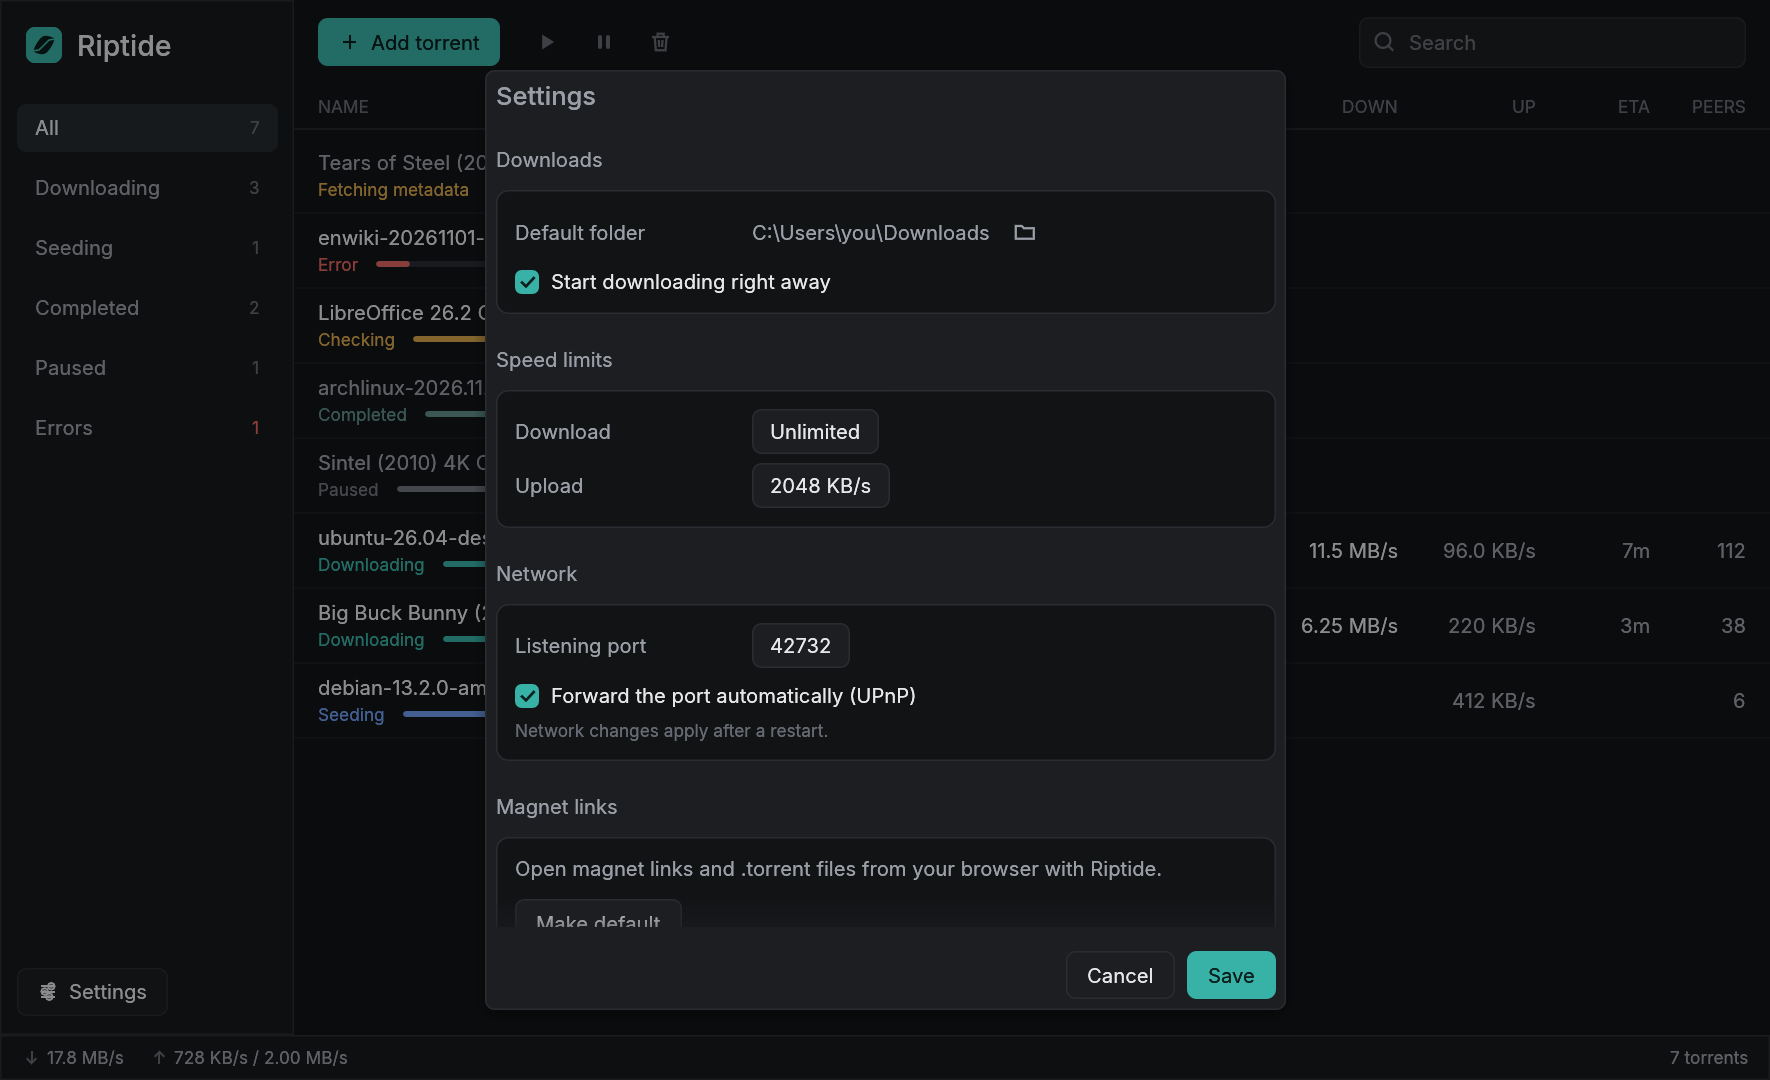
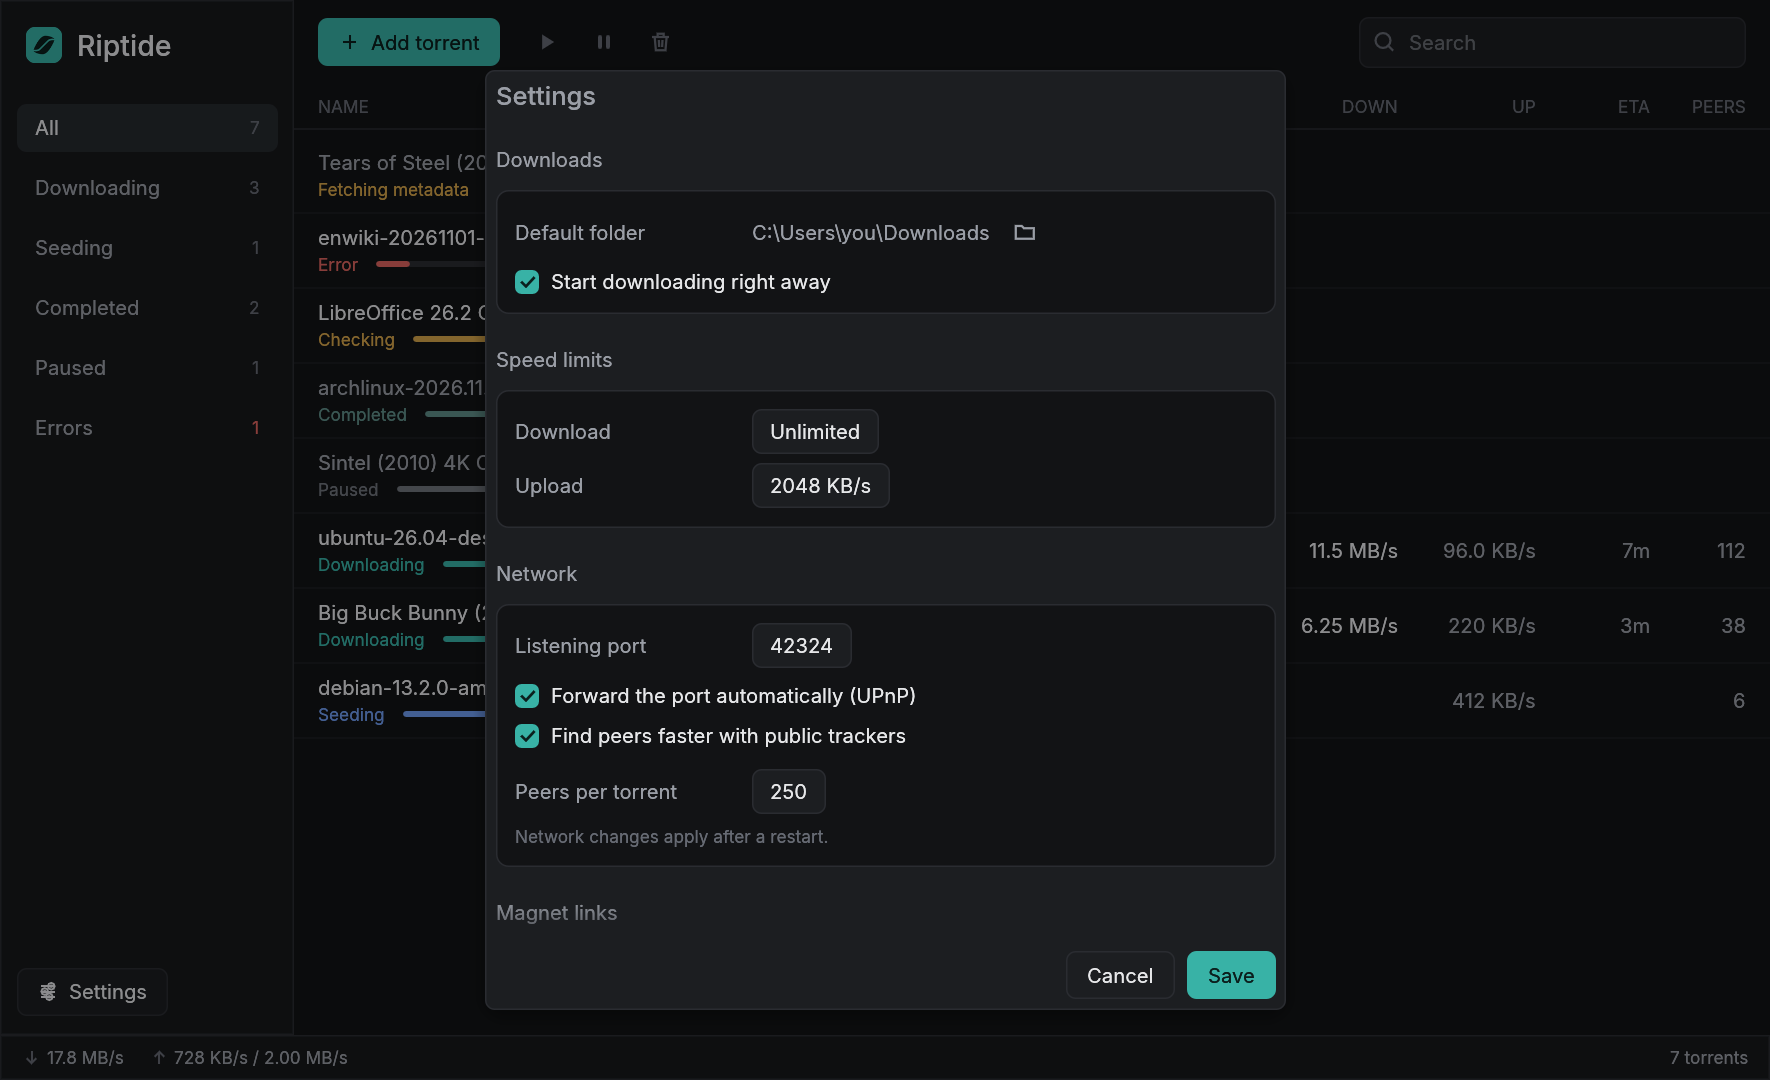
Tune the engine for faster downloads
Measured with a new benchmark (cargo test --release speed_benchmark --
--ignored) that downloads the same torrent with librqbit's defaults and
with Riptide's settings:

  Ubuntu 26.04 .torrent, 45 s:  8.69 -> 10.4 MB/s, peak peers 48 -> 115
  bare Sintel magnet, 20 s:     metadata 2.0 -> 1.0 s, peers 20 -> 56

- Up to 250 peers per torrent (librqbit default 128), configurable.
- Peer connect timeout 4 s instead of 10 s, so dead peers are skipped
  quickly while the swarm is explored.
- Optional list of large public trackers added to every torrent; most
  magnet links carry few or none.
- Check up to 6 torrents in parallel at startup (default 3).
- Settings: 'Peers per torrent' and 'Find peers faster with public
  trackers'.

Changed region(s): [[0.2797, 0.7333, 0.6525, 0.8556], [0.2797, 0.6722, 0.4972, 0.7333], [0.435, 0.5806, 0.4661, 0.6111]]

diff --git a/src/engine.rs b/src/engine.rs
@@ -16,8 +16,9 @@ use std::time::{Duration, Instant};
 use anyhow::Context;
 use librqbit::api::TorrentIdOrHash;
 use librqbit::{
-    AddTorrent, AddTorrentOptions, AddTorrentResponse, ListenerMode, ListenerOptions, Magnet,
-    ManagedTorrent, Session, SessionOptions, SessionPersistenceConfig, TorrentStatsState,
+    AddTorrent, AddTorrentOptions, AddTorrentResponse, ConnectionOptions, ListenerMode,
+    ListenerOptions, Magnet, ManagedTorrent, PeerConnectionOptions, Session, SessionOptions,
+    SessionPersistenceConfig, TorrentStatsState,
 };
 
 use crate::settings::Settings;
@@ -267,6 +268,31 @@ impl Engine {
                 upload_bps: kib_to_bps(settings.upload_limit_kib),
             },
             client_name_and_version: Some(format!("Riptide {}", env!("CARGO_PKG_VERSION"))),
+            // More simultaneous peers than librqbit's default of 128: popular
+            // torrents have hundreds of seeds and each adds bandwidth.
+            peer_limit: Some(settings.max_peers.max(16)),
+            connect: Some(ConnectionOptions {
+                peer_opts: Some(PeerConnectionOptions {
+                    // Give up on unreachable peers after 4 s instead of 10 s, so
+                    // the swarm is explored faster right after a torrent starts.
+                    connect_timeout: Some(Duration::from_secs(
+                        settings.connect_timeout_secs.max(1),
+                    )),
+                    ..Default::default()
+                }),
+                ..Default::default()
+            }),
+            trackers: if settings.extra_trackers {
+                crate::trackers::PUBLIC
+                    .iter()
+                    .filter_map(|t| t.parse().ok())
+                    .collect()
+            } else {
+                Default::default()
+            },
+            // Check more torrents in parallel at startup so resumed downloads
+            // get going sooner.
+            concurrent_init_limit: Some(6),
             ..Default::default()
         };
 
@@ -719,5 +745,85 @@ mod tests {
         );
         engine.shutdown();
         let _ = std::fs::remove_dir_all(&root);
+    }
+
+    /// Compares download speed with librqbit's defaults against Riptide's
+    /// tuning on the same torrent. Needs network; prints a small report.
+    ///
+    /// ```sh
+    /// RIPTIDE_BENCH="magnet:?xt=urn:btih:..." cargo test --release speed_benchmark -- --ignored --nocapture
+    /// ```
+    #[test]
+    #[ignore = "needs network, takes a few minutes"]
+    fn speed_benchmark() {
+        let Ok(source) = std::env::var("RIPTIDE_BENCH") else {
+            eprintln!("set RIPTIDE_BENCH to a magnet link or .torrent URL");
+            return;
+        };
+        let secs: u64 = std::env::var("RIPTIDE_BENCH_SECS")
+            .ok()
+            .and_then(|s| s.parse().ok())
+            .unwrap_or(45);
+
+        let baseline = Settings {
+            max_peers: 128,
+            extra_trackers: false,
+            connect_timeout_secs: 10,
+            ..Settings::default()
+        };
+        let tuned = Settings::default();
+
+        for (label, base) in [("librqbit defaults", baseline), ("riptide tuning", tuned)] {
+            let root = std::env::temp_dir().join(format!("riptide-bench-{}", std::process::id()));
+            let _ = std::fs::remove_dir_all(&root);
+            let settings = Settings {
+                download_dir: root.join("dl"),
+                listen_port: 0,
+                upnp: false,
+                ..base
+            };
+            let engine = Engine::start(&settings, root.join("session"), Arc::new(|| {})).unwrap();
+
+            let started = Instant::now();
+            let request = engine.request_preview(Source::Url(source.clone()));
+            let preview = wait_for(&engine, 300, |e| match e.poll_event() {
+                Some(Event::Preview { request: r, result }) if r == request => {
+                    Some(result.unwrap())
+                }
+                _ => None,
+            });
+            let metadata = started.elapsed();
+            engine.add(AddRequest {
+                source: Source::Url(source.clone()),
+                preview: Some(preview),
+                folder: None,
+                only_files: None,
+                paused: false,
+            });
+            wait_for(&engine, 60, |e| e.torrents().into_iter().next().map(drop));
+
+            let t0 = Instant::now();
+            let mut peak_peers = 0;
+            let mut first = None;
+            while t0.elapsed() < Duration::from_secs(secs) {
+                if let Some(t) = engine.torrents().into_iter().next() {
+                    peak_peers = peak_peers.max(t.peers);
+                    if first.is_none() && t.status == Status::Downloading {
+                        first = Some(t.done_bytes);
+                    }
+                }
+                std::thread::sleep(Duration::from_millis(500));
+            }
+            let t = engine.torrents().into_iter().next().unwrap();
+            let got = t.done_bytes.saturating_sub(first.unwrap_or(0));
+            println!(
+                "{label:>18}: metadata {:>5.1}s | {:>8} in {secs}s = {:>10} avg | peak peers {peak_peers}",
+                metadata.as_secs_f32(),
+                crate::format::bytes(got),
+                crate::format::speed(got / secs),
+            );
+            engine.shutdown();
+            let _ = std::fs::remove_dir_all(&root);
+        }
     }
 }

diff --git a/src/trackers.rs b/src/trackers.rs
@@ -1,0 +1,31 @@
+//! Public trackers added to every torrent when "extra trackers" is on.
+//!
+//! Many magnet links carry one tracker or none, so finding metadata and peers
+//! relies on DHT alone, which can take a minute. Announcing to a handful of
+//! large, long-running open trackers usually finds peers within seconds.
+//! The list favors trackers with years of uptime; dead ones just time out.
+
+pub const PUBLIC: &[&str] = &[
+    "udp://tracker.opentrackr.org:1337/announce",
+    "udp://open.demonii.com:1337/announce",
+    "udp://open.stealth.si:80/announce",
+    "udp://tracker.torrent.eu.org:451/announce",
+    "udp://exodus.desync.com:6969/announce",
+    "udp://tracker.theoks.net:6969/announce",
+    "udp://explodie.org:6969/announce",
+    "udp://tracker.qu.ax:6969/announce",
+    "udp://opentracker.io:6969/announce",
+    "udp://tracker.dler.org:6969/announce",
+    "https://tracker.tamersunion.org:443/announce",
+    "http://tracker.opentrackr.org:1337/announce",
+];
+
+#[cfg(test)]
+mod tests {
+    #[test]
+    fn all_trackers_parse() {
+        for t in super::PUBLIC {
+            url::Url::parse(t).unwrap();
+        }
+    }
+}

diff --git a/src/i18n.rs b/src/i18n.rs
@@ -136,6 +136,8 @@ pub struct Strings {
     pub port: &'static str,
     pub upnp: &'static str,
     pub restart_note: &'static str,
+    pub extra_trackers: &'static str,
+    pub max_peers: &'static str,
     pub interface: &'static str,
     pub language: &'static str,
     pub save: &'static str,
@@ -233,6 +235,8 @@ pub static EN: Strings = Strings {
     port: "Listening port",
     upnp: "Forward the port automatically (UPnP)",
     restart_note: "Network changes apply after a restart.",
+    extra_trackers: "Find peers faster with public trackers",
+    max_peers: "Peers per torrent",
     interface: "Interface",
     language: "Language",
     save: "Save",
@@ -336,6 +340,8 @@ pub static TR: Strings = Strings {
     port: "Dinlenen port",
     upnp: "Portu otomatik yönlendir (UPnP)",
     restart_note: "Ağ değişiklikleri yeniden başlatınca uygulanır.",
+    extra_trackers: "Genel tracker'larla eşleri daha hızlı bul",
+    max_peers: "Torrent başına eş",
     interface: "Arayüz",
     language: "Dil",
     save: "Kaydet",

diff --git a/src/ui/settings_view.rs b/src/ui/settings_view.rs
@@ -89,6 +89,16 @@ impl App {
                         });
                         ui.add_space(4.0);
                         widgets::checkbox(ui, &mut d.upnp, s.upnp);
+                        ui.add_space(4.0);
+                        widgets::checkbox(ui, &mut d.extra_trackers, s.extra_trackers);
+                        ui.add_space(8.0);
+                        row(ui, s.max_peers, |ui| {
+                            ui.add(
+                                egui::DragValue::new(&mut d.max_peers)
+                                    .range(16..=1000)
+                                    .speed(4.0),
+                            )
+                        });
                         ui.add_space(2.0);
                         ui.label(
                             RichText::new(s.restart_note)

diff --git a/src/settings.rs b/src/settings.rs
@@ -50,6 +50,12 @@ pub struct Settings {
     pub upload_limit_kib: u32,
     /// Start downloading as soon as a torrent is added.
     pub start_on_add: bool,
+    /// Maximum connected peers per torrent.
+    pub max_peers: usize,
+    /// Announce every torrent to a list of large public trackers too.
+    pub extra_trackers: bool,
+    /// Seconds to wait for a peer to accept a connection. Not shown in the UI.
+    pub connect_timeout_secs: u64,
     pub language: Lang,
 }
 
@@ -63,6 +69,9 @@ impl Default for Settings {
             download_limit_kib: 0,
             upload_limit_kib: 0,
             start_on_add: true,
+            max_peers: 250,
+            extra_trackers: true,
+            connect_timeout_secs: 4,
             language: Lang::detect(),
         }
     }

diff --git a/src/main.rs b/src/main.rs
@@ -6,6 +6,7 @@ mod i18n;
 mod instance;
 mod platform;
 mod settings;
+mod trackers;
 mod ui;
 
 use eframe::egui;

diff --git a/README.md b/README.md
@@ -21,6 +21,10 @@ trackers unless you want to.
   `.torrent` files on it.
 - **Magnet links from the browser.** Make Riptide the default handler in
   Settings; links open in the window that is already running.
+- **Tuned for speed.** Up to 250 peers per torrent, fast connect timeouts,
+  TCP and uTP, and a set of large public trackers so magnet links find peers
+  in seconds. In a side-by-side test on the Ubuntu 26.04 torrent this pulled
+  19% more data than librqbit's defaults and connected to 2.4x more peers.
 - **Speed limits** that apply instantly, plus UPnP port forwarding.
 - **English and Turkish**, picked from your system language.
 - One small native binary. No Electron, no web view, no OpenSSL.
